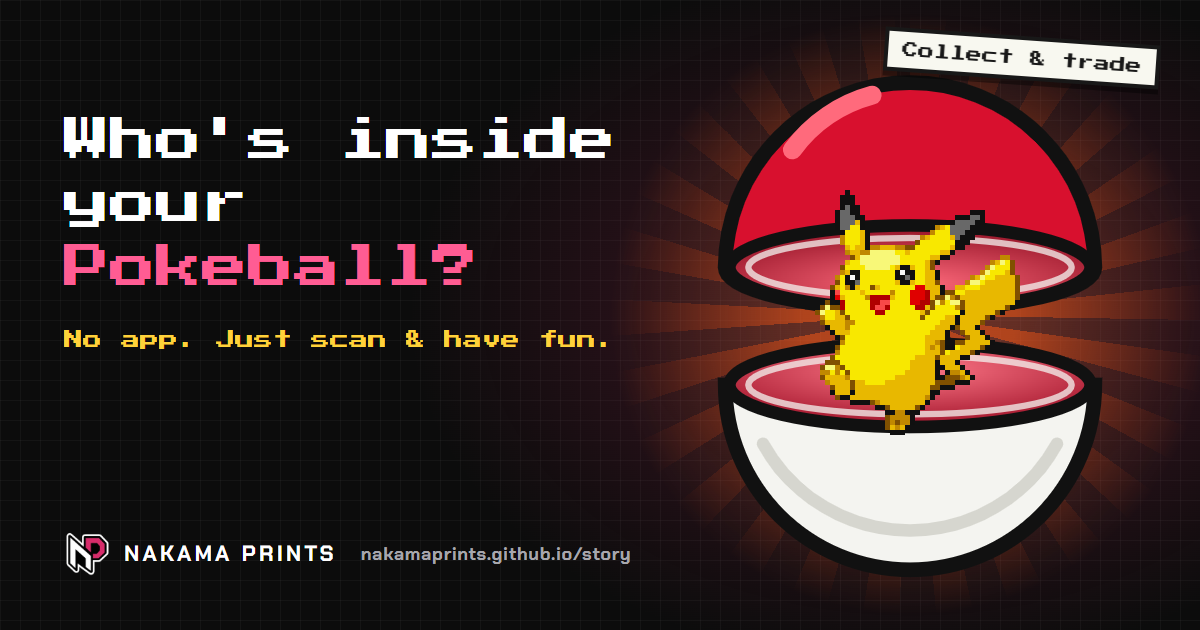
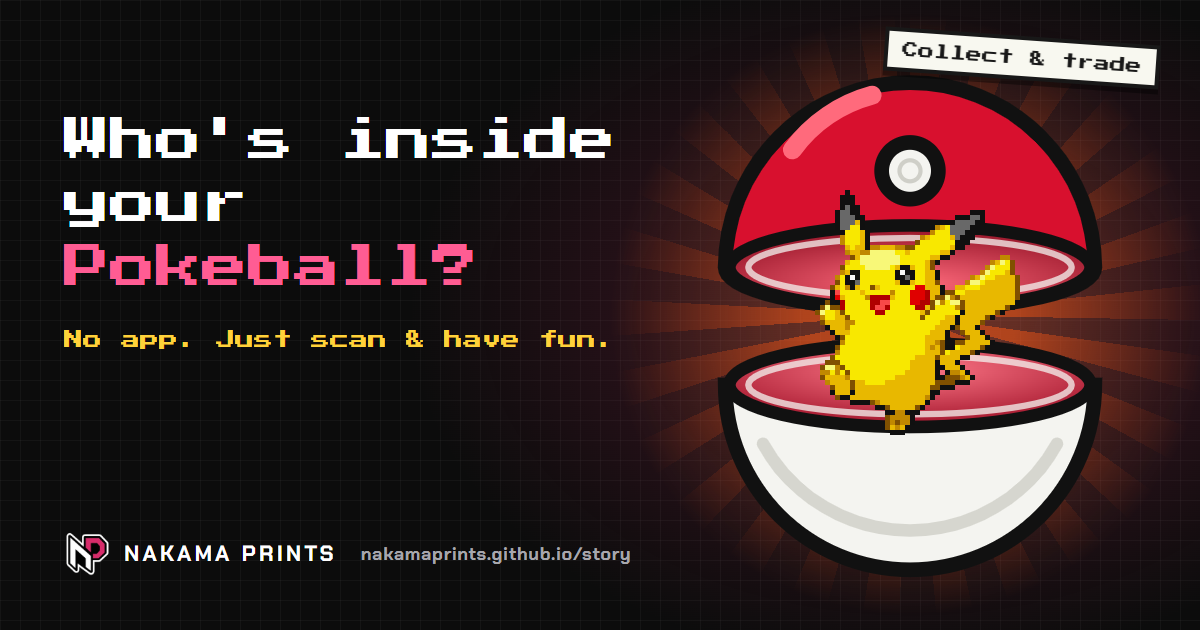
Story page: Pokeball button on the open top half

Changed region(s): [[0.7092, 0.2111, 0.8017, 0.3317]]

diff --git a/story/index.html b/story/index.html
@@ -90,8 +90,9 @@
               <path d="M44 -12a70 70 0 0 1 38-26" fill="none" stroke="#ff6a7c" stroke-width="9" stroke-linecap="round" />
               <ellipse cx="100" cy="44" rx="86" ry="20" fill="url(#inTop)" stroke="#111" stroke-width="6" />
               <ellipse cx="100" cy="44" rx="77" ry="14" fill="none" stroke="#f4f4f0" stroke-width="3" opacity=".75" />
-              <circle cx="100" cy="64" r="11" fill="#111" />
-              <circle cx="100" cy="64" r="6" fill="#f4f4f0" />
+              <circle cx="100" cy="-2" r="17" fill="#111" />
+              <circle cx="100" cy="-2" r="10" fill="#f4f4f0" />
+              <circle cx="100" cy="-2" r="5" fill="none" stroke="#cfcfc8" stroke-width="2" />
             </g>
           </svg>
           <div class="pop" id="pop"></div>
